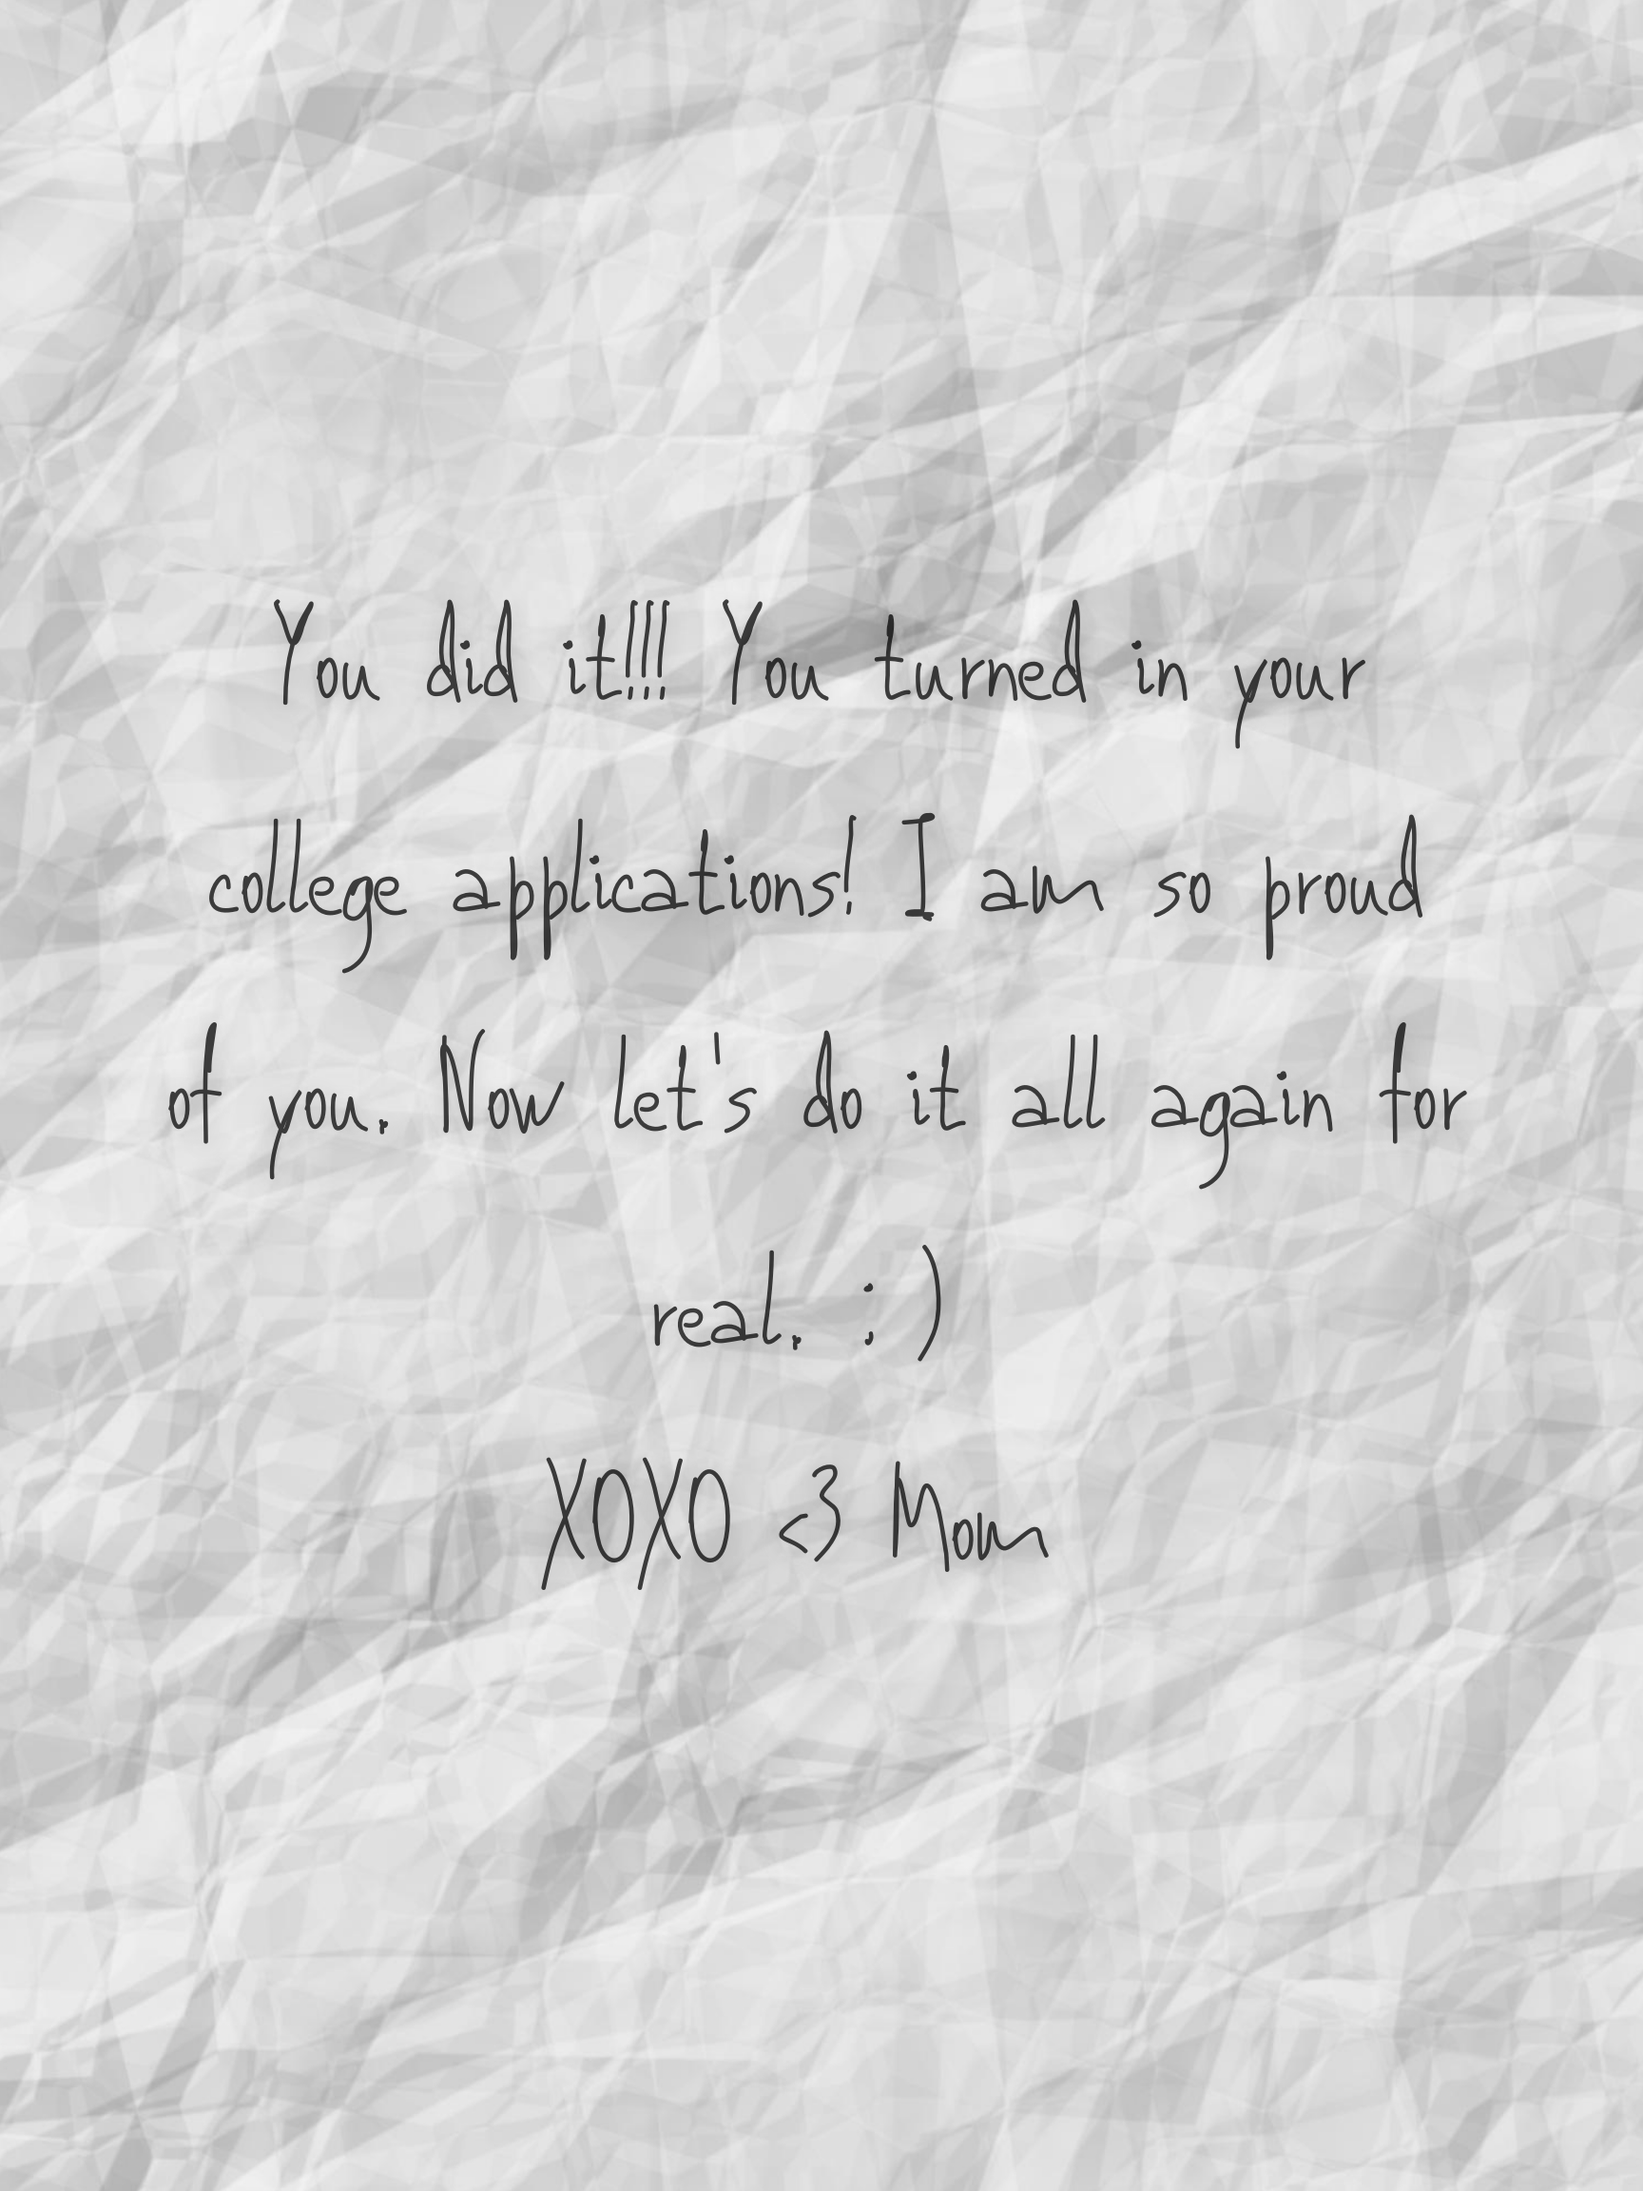
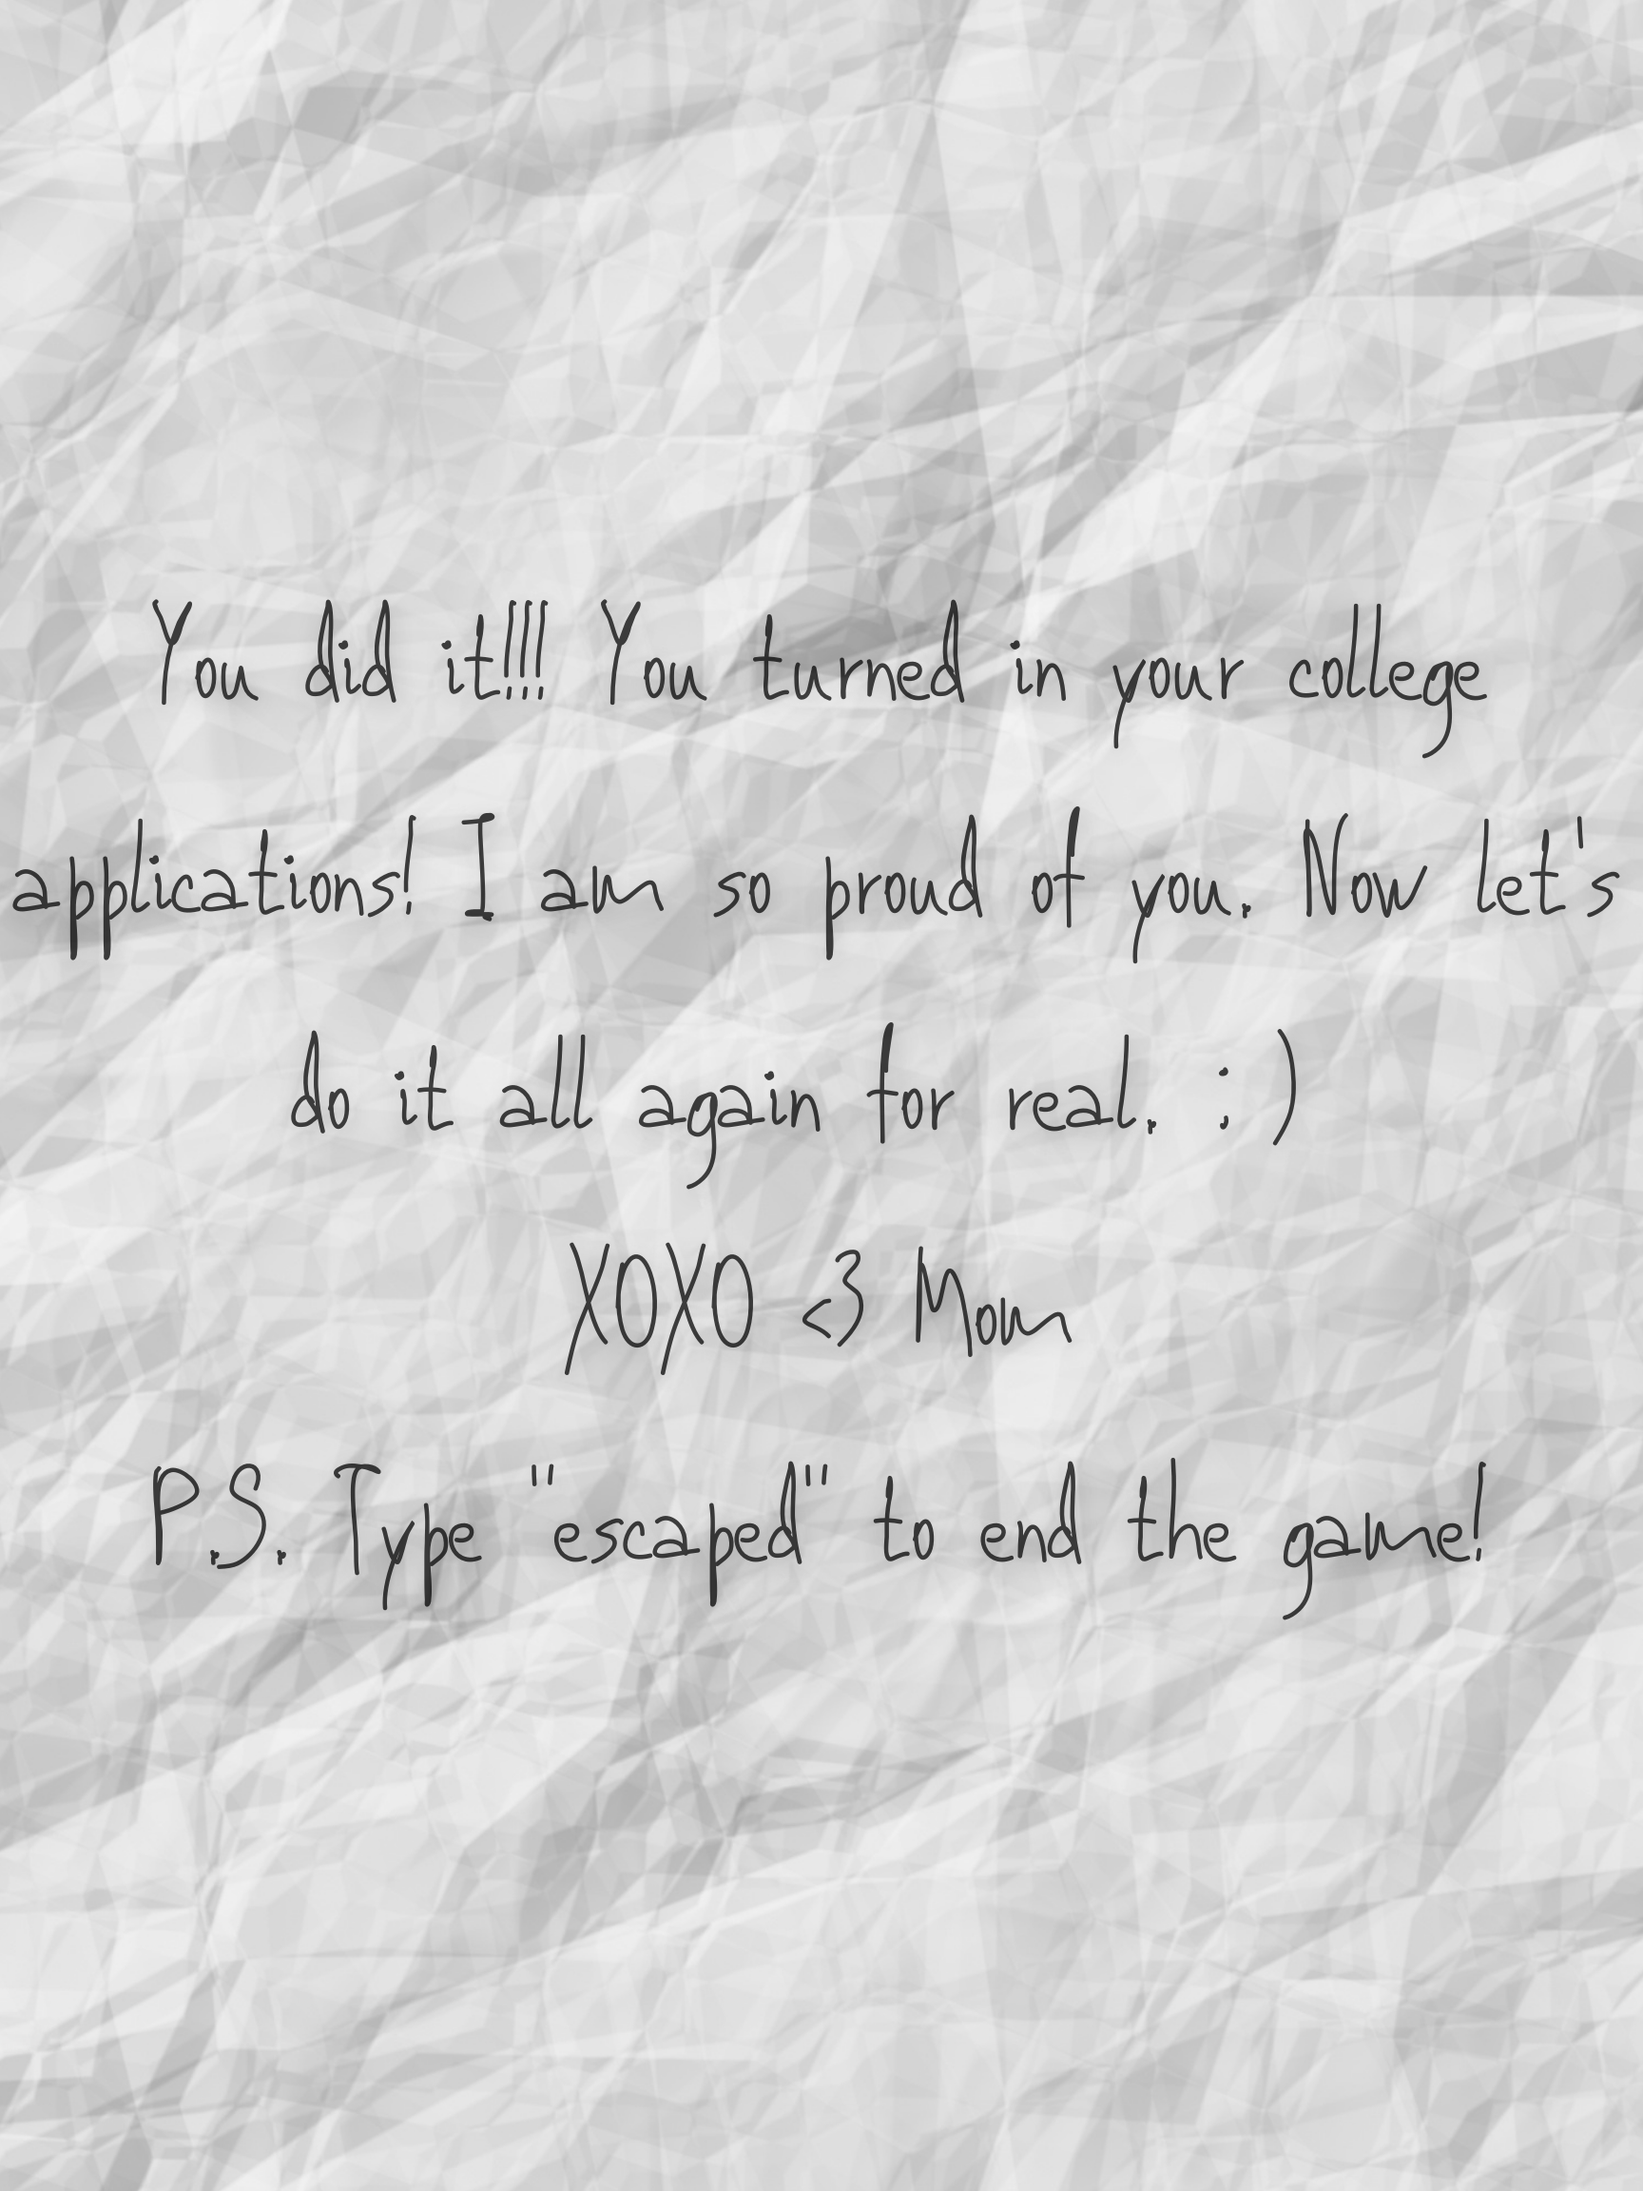
added final level screen

diff --git a/src/main.js b/src/main.js
@@ -6,26 +6,36 @@ import { Button } from "@material-ui/core";
 import Zone from "./components/zone";
 import CheckList from "./components/checklist/checklist";
 import HintGiver from "./components/hintGiver/hintGiver";
-import Start from "./components/start/start.js";
+import MessageModal from "./components/start/messageModal.js";
 import Timer from 'react-compound-timer'
 import Sound from 'react-sound';
 import Finish from "./components/start/finish.js";
 
 class Main extends React.Component {
 
+    timeLeft = 0;
+
     constructor(props) {
         super(props);
         this.state = {
             currentLevel: Levels.level1,
             isPlaying: false,
-            timer: 0
+            won: false
         };
     }
 
     handleAnswer = (answer) => {
         if (answer.toLowerCase() === this.state.currentLevel.answer.toLowerCase()) {
-            // go to next level
-            this.setState({ currentLevel: this.state.currentLevel.next })
+            if (!this.state.currentLevel.next) {
+                console.log("won");
+                this.setState({ won: true })
+                document.onkeydown = function (e) {
+                    return false;
+                }
+            } else {
+                // go to next level
+                this.setState({ currentLevel: this.state.currentLevel.next })
+            }
 
         } else {
             alert('Incorrect!');
@@ -39,9 +49,29 @@ class Main extends React.Component {
     }
 
     render() {
+        const timeTaken = 60 - (this.timeLeft / 1000 / 60);
+        const timeTakenMin = Math.floor(timeTaken);
+        const timeTakenSec = (((timeTaken % 1) * 60) / 100) * 100;
+        const timeTakenSecFormatted = ("0" + timeTakenSec).slice(-2);
         return (
             <div>
-                <Start />
+                {!this.state.won ?
+                    <MessageModal>
+                        <h2 id="transition-modal-title">ESCAPE HIGH SCHOOL</h2>
+                        <h4 id="transition-modal-description">Rules: </h4>
+                        <p id="transition-modal-description">- Use the arrow keys to move around. </p>
+                        <p id="transition-modal-description">- Use the spacebar or enter key to interact with objects.</p>
+                        <p id="transition-modal-description">- When you think you have an answer, click NEXT LEVEL.</p>
+                        <p id="transition-modal-description">- Do not hit the reset button or all your progress will be lost.</p>
+                        <p id="transition-modal-description">Have fun! Your timer starts NOW!</p>
+                    </MessageModal>
+                    :
+                    <MessageModal override={true}>
+                        <h2 id="transition-modal-title">Congratulations!! You escaped high school! </h2>
+                        <p id="transition-modal-description">- Your escape time is: {timeTakenMin}min {timeTakenSecFormatted}sec </p>
+                        <p id="transition-modal-description">- Take a screenshot of this page and send it to CCC!</p>
+                        <p id="transition-modal-description">- Thanks for playing!</p>
+                    </MessageModal>}
                 <h1>Escape High School</h1>
 
                 <center style={{ flex: 1, justifyContent: 'center', alignItems: 'center' }}>
@@ -57,21 +87,20 @@ class Main extends React.Component {
                             {
                                 time: 60 * 1000 * 30,
                                 callback: () => alert('30 minutes left!'),
-                            },
-                        ]}
-                    >
-                        {({ start, resume, pause, stop, reset, getTimerState, getTime }) => (
-                            <React.Fragment>
-                                <h2 style={{ fontFamily: 'Helvetica Neue' }}>
-                                    <h2 style={{ fontSize: 32, color: "white" }}>
-                                        <Timer.Minutes />:<Timer.Seconds />
+                            }
+                        ]}>
+                        {({ start, resume, pause, stop, reset, getTimerState, getTime }) => {
+                            this.timeLeft = getTime();
+                            return (
+                                <React.Fragment>
+                                    <h2 style={{ fontFamily: 'Helvetica Neue' }}>
+                                        <h2 style={{ fontSize: 32, color: "white" }}>
+                                            <Timer.Minutes />:<Timer.Seconds />
+                                        </h2>
                                     </h2>
-                                </h2>
-                                {/* <button onClick={stop}>Pause</button> */}
-                                {/* <div> {this.state.timer = getTime()}</div> */}
-                            </React.Fragment>
-                        )}
-
+                                </React.Fragment>
+                            );
+                        }}
                     </Timer>
                 </center>
 
@@ -81,28 +110,16 @@ class Main extends React.Component {
                 <h3>Arrow keys: Move</h3>
                 <h3>Enter/Space: Interact</h3>
                 <center>
-                    {this.state.currentLevel.title !== "Level 8 - The End" ?
-                        //     <Button onClick={() => this.setState({ currentLevel: this.state.currentLevel.next })} variant="outlined" color="primary">
-                        //         Next level
-                        // </Button> 
-                        <FormDialog handleAnswer={this.handleAnswer} /> :
-                        <Button onClick={null} variant="outlined" color="primary">
-                            STOP TIME
-                            {/* <Finish time={this.state.timer} /> */}
-                        </Button>}
-
+                    <FormDialog handleAnswer={this.handleAnswer} />
                     <HintGiver hints={this.state.currentLevel.hints} />
                     <Button onClick={this.handlePlay} variant="outlined" color="primary">
                         {this.state.isPlaying ? "Turn music off" : "Turn music on"}
                     </Button>
-                    <Sound
-                        url={this.state.currentLevel.music}
+                    <Sound url={this.state.currentLevel.music}
                         playStatus={this.state.isPlaying ? Sound.status.PLAYING : null}
                         loop={true}
-                        volume={25}
-                    />
+                        volume={25} />
                 </center>
-
             </div >
         );
     }

diff --git a/src/components/zone/index.jsx b/src/components/zone/index.jsx
@@ -5,6 +5,23 @@ import DialogBox from "../dialog";
 import Tile from "../tile";
 import { DualRing } from "react-css-spinners";
 import PopUp from "../puzzlePopup";
+import { withStyles } from '@material-ui/core/styles';
+
+const themes = (theme) => ({
+    paper: {
+        backgroundColor: 'black',
+        border: '2px solid #000',
+        boxShadow: theme.shadows[5],
+        padding: theme.spacing(2, 4, 3),
+        width: 600,
+        height: 850,
+    },
+    img: {
+        width: 600,
+        height: 800,
+        alignItems: 'center',
+    }
+});
 
 class Zone extends React.Component {
 
@@ -204,6 +221,7 @@ class Zone extends React.Component {
             spinner = null;
         }
 
+        console.log(this.props);
         return (
             <div className="zone-container" style={{ width: this.mapWidth * this.tileWidth, height: this.mapHeight * this.tileHeight }}>
                 {spinner}
@@ -211,8 +229,11 @@ class Zone extends React.Component {
                 {player}
                 <PopUp style={{ position: "absolute" }}
                     open={this.state.popUpImage !== null}
-                    handleClose={() => { this.setState({ popUpImage: null }) }}
-                    image={this.state.popUpImage} />
+                    handleClose={() => { this.setState({ popUpImage: null }) }}>
+                    <div className={this.props.classes.paper}>
+                        <img className={this.props.classes.img} src={this.state.popUpImage}/>
+                    </div>
+                </PopUp>
                 <div style={{
                     width: this.mapWidth * this.tileWidth,
                     height: this.mapHeight * this.tileHeight,
@@ -239,4 +260,4 @@ class Zone extends React.Component {
     }
 }
 
-export default Zone;
+export default withStyles(themes)(Zone);

diff --git a/src/components/start/messageModal.js b/src/components/start/messageModal.js
@@ -24,7 +24,7 @@ const useStyles = makeStyles((theme) => ({
     },
 }));
 
-export default function Start() {
+export default function MessageModal(props) {
     const classes = useStyles();
     const [open, setOpen] = React.useState(true);
 
@@ -38,24 +38,16 @@ export default function Start() {
                 aria-labelledby="transition-modal-title"
                 aria-describedby="transition-modal-description"
                 className={classes.modal}
-                open={open}
+                open={open || props.override}
                 onClose={handleClose}
                 closeAfterTransition
                 BackdropComponent={Backdrop}
                 BackdropProps={{
                     timeout: 500,
-                }}
-            >
-                <Fade in={open}>
+                }}>
+                <Fade in={open || props.override}>
                     <div className={classes.paper} >
-                        <h2 id="transition-modal-title">ESCAPE HIGH SCHOOL</h2>
-                        <h4 id="transition-modal-description">Rules: </h4>
-                        <p id="transition-modal-description">- Use the arrow keys to move around. </p>
-                        <p id="transition-modal-description">- Use the spacebar or enter key to interact with objects.</p>
-                        <p id="transition-modal-description">- When you think you have an answer, click NEXT LEVEL.</p>
-                        <p id="transition-modal-description">- Do not hit the reset button or all your progress will be lost.</p>
-                        <p id="transition-modal-description">Have fun! Your timer starts NOW!</p>
-
+                        {props.children}
                     </div>
                 </Fade>
             </Modal>

diff --git a/src/components/puzzlePopup/index.js b/src/components/puzzlePopup/index.js
@@ -12,19 +12,6 @@ const styles = (theme) => ({
         display: 'flex',
         alignItems: 'center',
         justifyContent: 'center',
-    },
-    paper: {
-        backgroundColor: 'black',
-        border: '2px solid #000',
-        boxShadow: theme.shadows[5],
-        padding: theme.spacing(2, 4, 3),
-        width: 600,
-        height: 850,
-    },
-    img: {
-        width: 600,
-        height: 800,
-        alignItems: 'center',
     }
 });
 
@@ -54,9 +41,7 @@ class PopUp extends React.Component {
                         timeout: 500,
                     }}>
                     <Fade in={this.props.open}>
-                        <div className={classes.paper}>
-                            <img className={classes.img} src={this.props.image}/>
-                        </div>
+                        {this.props.children}
                     </Fade>
                 </Modal>
             </div>

diff --git a/src/components/levels/level8/index.js b/src/components/levels/level8/index.js
@@ -31,7 +31,7 @@ const playerStartingPoint = {
     column: 8 // tile
 }
 
-const answer = "college";
+const answer = "escaped";
 
 const hints = [
     "Did you observe the sink?",
